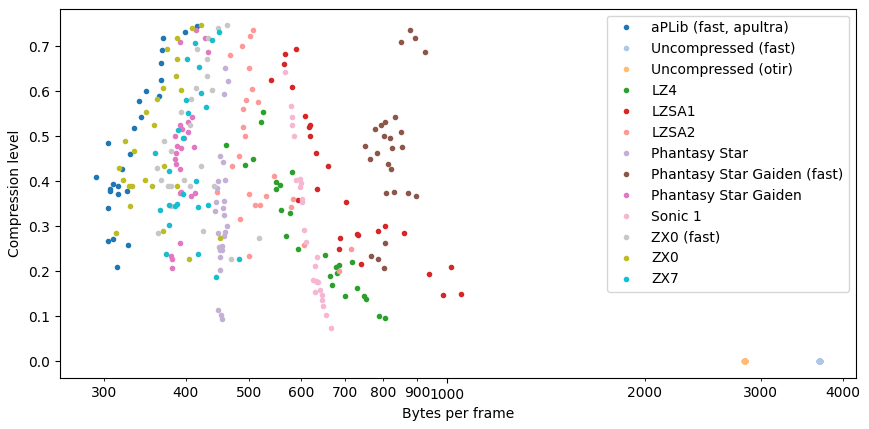
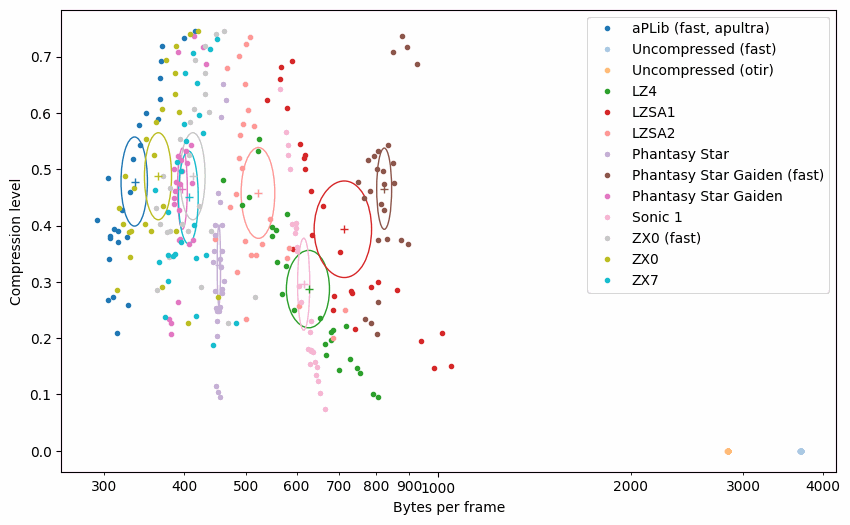
Added means and SD ellipses to benchmark graph, closes #5

diff --git a/benchmark/benchmark.py b/benchmark/benchmark.py
@@ -4,7 +4,10 @@ import re
 import glob
 import json
 import matplotlib.pyplot
+from matplotlib.patches import Ellipse
 import itertools
+import statistics
+import numpy
 
 WLA_PATH = "C:\\Users\\maxim\\Documents\\Code\\C\\wla-dx\\binaries"
 BMP2TILE_PATH = "C:\\Users\\maxim\\Documents\\Code\\C#\\bmp2tile"
@@ -124,21 +127,61 @@ def main():
                     print(f'{result.technology}\t{test_extension}+{benchmark_file}+{image.replace(" ", "_")}\t{result.cycles}\t{result.uncompressed}\t{result.compressed}\t{result.ratio}\t{result.bytes_per_frame}')
                     results.append(result)
 
+    # Dummy results for fast testing
+    # results = [Result("foo", 100, 100, 1000, ""), Result("foo", 90, 100, 1100, ""), Result("bar", 80, 100, 800, ""), Result("bar", 110, 100, 800, "")]
+
     # Now plot the results
     NUM_COLORS = len([x for x in itertools.groupby(results, lambda r: r.technology)])
 
     cm = matplotlib.pyplot.get_cmap('tab20')
-    matplotlib.pyplot.gca().set_prop_cycle(color=[cm(1.*i/NUM_COLORS) for i in range(NUM_COLORS)])
+    colors = [cm(1.*i/NUM_COLORS) for i in range(NUM_COLORS)]
+    index = 0
 
     for technology, data in itertools.groupby(results, lambda r: r.technology):
+        # Get data series and stats
         group_results = list(data)
+        x = [r.bytes_per_frame for r in group_results]
+        y = [r.ratio for r in group_results]
+        mean_x = statistics.mean(x)
+        mean_y = statistics.mean(y)
+        stdev_x = statistics.stdev(x)
+        stdev_y = statistics.stdev(y)
+
+        # Pick the next colour
+        color = colors[index]
+        index += 1
+
+        # Draw the mean and stdev ellipse (if non-zero stdev)
+        if stdev_x > 0 and stdev_y > 0:
+            matplotlib.pyplot.gca().add_artist(Ellipse(
+                xy=[mean_x, mean_y],
+                width=stdev_x,
+                height=stdev_y,
+                fill=False,
+                edgecolor=color,
+                linestyle='-',
+                zorder = index-200 # SDs at the bottom
+            ))
+            matplotlib.pyplot.plot(
+                mean_x,
+                mean_y,
+                marker='+',
+                color=color,
+                label='_', # hide from legend
+                zorder=index+200 # means above dots
+            )
+
+        # Draw the dots
         matplotlib.pyplot.plot(
-            [r.bytes_per_frame for r in group_results],
-            [r.ratio for r in group_results],
+            x,
+            y,
             marker='.',
             linestyle='none',
-            label=technology
+            label=technology,
+            color=color,
+            zorder=index+100 # dots from 100
         )
+
     matplotlib.pyplot.xlabel("Bytes per frame")
     matplotlib.pyplot.xscale("log")
     matplotlib.pyplot.minorticks_on
@@ -146,9 +189,13 @@ def main():
     matplotlib.pyplot.gca().xaxis.set_minor_formatter(matplotlib.ticker.ScalarFormatter())
     matplotlib.pyplot.ylabel("Compression level")
     matplotlib.pyplot.legend()
+    matplotlib.pyplot.gcf().set_figwidth(10)
+    matplotlib.pyplot.gcf().set_figheight(6)
+    
+    matplotlib.pyplot.savefig("../benchmark.png", bbox_inches="tight")
 
     matplotlib.pyplot.show()
-    
-    
+
+
 
 main()
